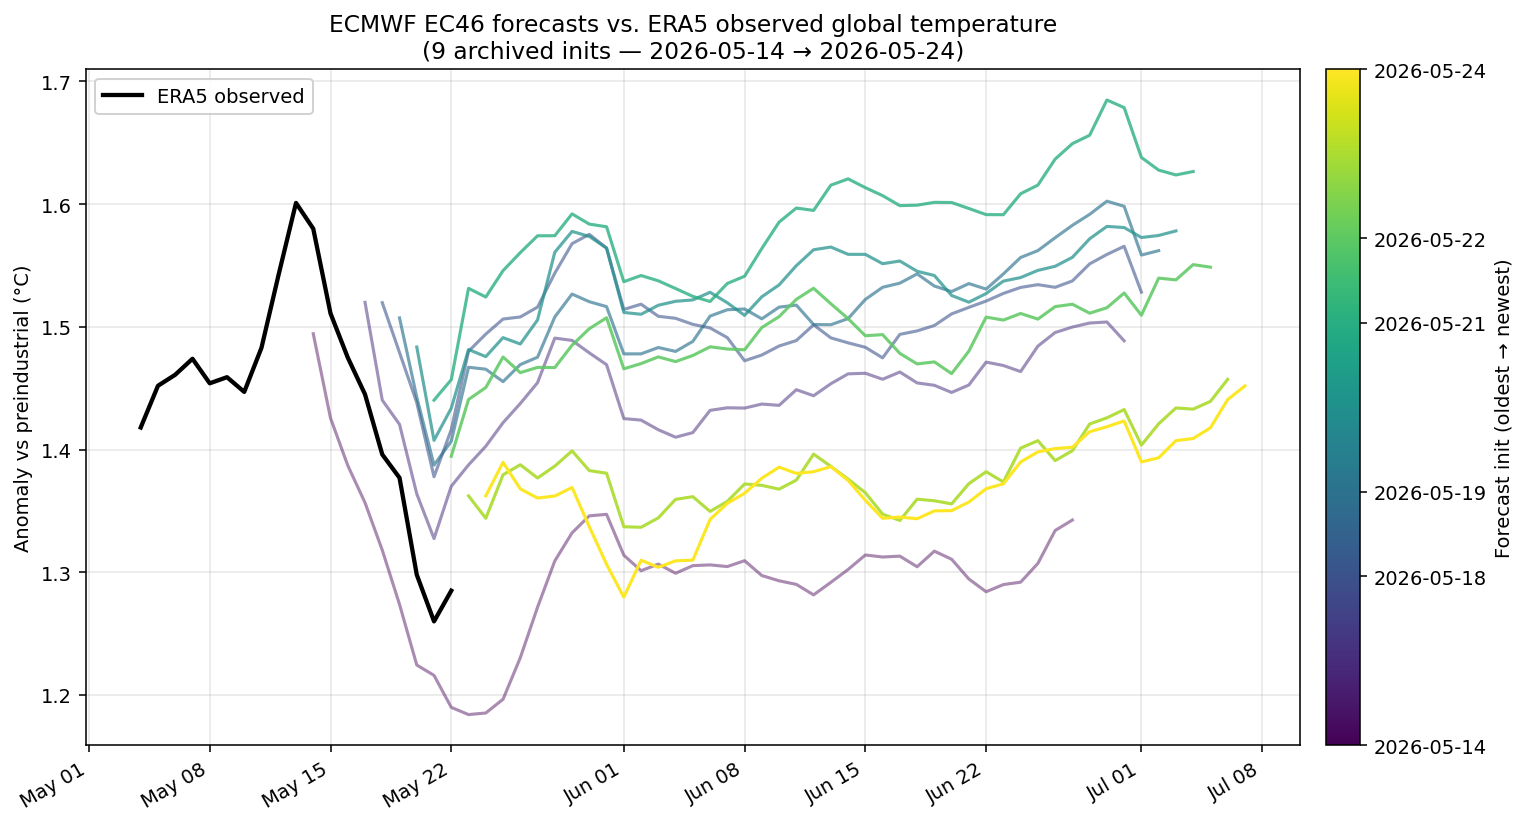
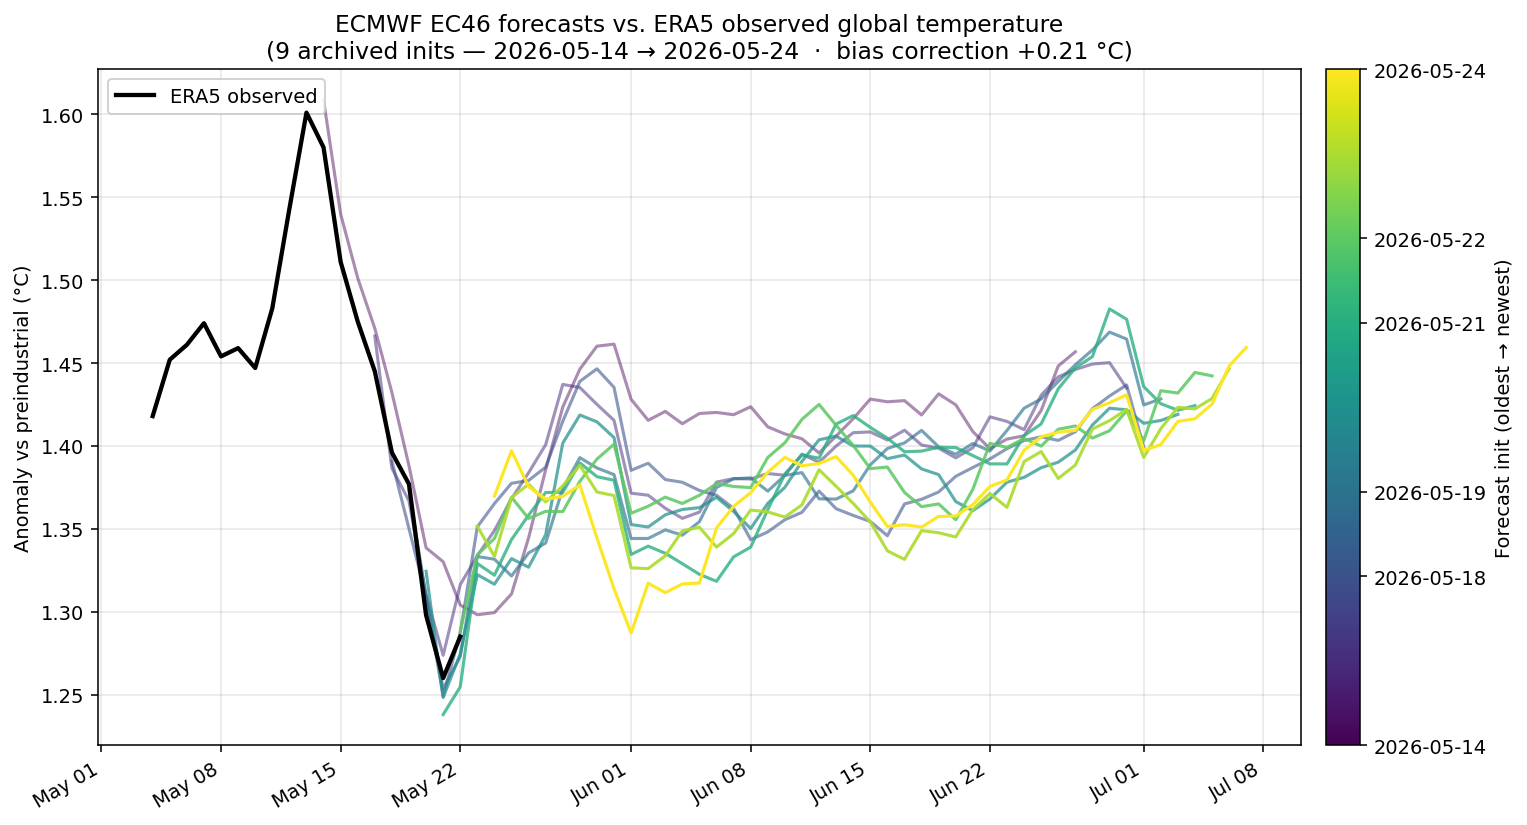
Apply data-driven bias correction in EC46 skill plot
EC46 extended forecasts are initialised from the ECMWF operational
analysis (current IFS cycle) while ERA5 is a frozen reanalysis. The two
disagree by ~0.2 °C on absolute global-mean t2m for the same date, so
subtracting ERA5's per-DOY climatology from raw forecast t2m left every
forecast line sitting as a near-constant 0.2 °C cold tilt under the
obs trace.

Compute the correction dynamically from lead-0 (forecast IC vs ERA5
obs on the init date) pairings across all archived inits — currently
+0.21 °C from 7 pairs, with std ~0.02 °C. Self-tunes as the archive
grows. Applied as a uniform additive shift so relative differences
between inits are preserved. Annotated in the plot title for
transparency.

diff --git a/src/ec46_skill.py b/src/ec46_skill.py
@@ -46,15 +46,20 @@ def _load_obs() -> pd.DataFrame:
     return obs
 
 
-def _anomalize_forecast(fcst: pd.DataFrame, obs: pd.DataFrame) -> pd.DataFrame | None:
-    """Convert an EC46 init's absolute t2m mean to preindustrial anomaly.
+def _anomalize_forecast(fcst: pd.DataFrame, obs: pd.DataFrame,
+                        bias_correction: float = 0.0) -> pd.DataFrame | None:
+    """Convert an EC46 init's absolute t2m mean to preindustrial anomaly,
+    optionally applying a constant bias correction (°C) added to every
+    forecast value before subtracting climatology.
 
     Unlike the dashboard's daily-anomaly plot (which anchors the forecast
     to the trailing 7-day observed mean for visual continuity), the skill
-    plot intentionally does *not* anchor. Anchoring would lift each
-    forecast trajectory by a different per-init delta and make any
-    plotted spread reflect the moving obs anchor rather than actual
-    differences between model forecasts.
+    plot intentionally does *not* anchor. Instead it applies a single
+    archive-wide bias correction estimated from lead-0 (model IC vs ERA5
+    obs) pairings — see ``_estimate_bias_correction``. A uniform shift
+    preserves the relative differences between inits while removing the
+    ECMWF operational-analysis vs ERA5-reanalysis offset that otherwise
+    sits as a near-constant cold tilt under every forecast line.
     """
     if fcst.empty:
         return None
@@ -65,7 +70,8 @@ def _anomalize_forecast(fcst: pd.DataFrame, obs: pd.DataFrame) -> pd.DataFrame |
     doy_clim = obs.groupby("day_of_year")["climatology"].mean()
     f["clim_C"] = f["day_of_year"].map(doy_clim)
     f["pi_offset"] = f["date"].apply(lambda d: MONTHLY_PREINDUSTRIAL_OFFSETS[d.month])
-    f["forecast_anom"] = f["t2m_mean"] - f["clim_C"] + f["pi_offset"]
+    f["forecast_anom"] = (f["t2m_mean"] + bias_correction
+                          - f["clim_C"] + f["pi_offset"])
     return f[["date", "forecast_anom"]]
 
 
@@ -85,6 +91,42 @@ def _load_archive() -> list[tuple[pd.Timestamp, pd.DataFrame]]:
     return out
 
 
+def _estimate_bias_correction(
+    archive: list[tuple[pd.Timestamp, pd.DataFrame]],
+    obs: pd.DataFrame,
+) -> float:
+    """Return the bias correction (°C) to add to forecast t2m so EC46
+    forecasts align with ERA5 reanalysis on a global-mean basis.
+
+    Computed as the mean of (ERA5 obs t2m − forecast t2m) at lead-day 0
+    across all archived inits where the obs date is present. Lead-day 0
+    is the cleanest comparison: it isolates the IC-vs-reanalysis offset
+    (ECMWF operational analysis vs ERA5) from any model drift that
+    accumulates with lead time. Returns 0.0 if we have no pairings yet.
+    """
+    diffs: list[float] = []
+    obs_indexed = obs.set_index("date")["temperature"]
+    for init_date, raw in archive:
+        f = raw.copy()
+        f["date"] = pd.to_datetime(f["date"])
+        day0 = f[f["date"] == init_date]
+        if day0.empty:
+            continue
+        try:
+            obs_val = float(obs_indexed.loc[init_date])
+        except KeyError:
+            continue
+        diffs.append(obs_val - float(day0["t2m_mean"].iloc[0]))
+    if not diffs:
+        return 0.0
+    bias = float(np.mean(diffs))
+    logger.info(
+        "EC46 skill: bias correction = %+.3f °C from %d lead-0 pairings",
+        bias, len(diffs),
+    )
+    return bias
+
+
 def make_plot(output_path: Path = OUTPUT_PNG) -> Path | None:
     """Generate the EC46 forecast-vs-obs PNG. Returns the output path on
     success, None if there is nothing to plot."""
@@ -94,10 +136,11 @@ def make_plot(output_path: Path = OUTPUT_PNG) -> Path | None:
         return None
 
     obs = _load_obs()
+    bias = _estimate_bias_correction(archive, obs)
 
     forecasts: list[tuple[pd.Timestamp, pd.DataFrame]] = []
     for init_date, raw in archive:
-        anom = _anomalize_forecast(raw, obs)
+        anom = _anomalize_forecast(raw, obs, bias_correction=bias)
         if anom is not None and not anom.empty:
             forecasts.append((init_date, anom))
 
@@ -140,9 +183,11 @@ def make_plot(output_path: Path = OUTPUT_PNG) -> Path | None:
         color="black", linewidth=2.2, label="ERA5 observed", zorder=100,
     )
 
+    bias_note = f"  ·  bias correction {bias:+.2f} °C" if bias else ""
     ax.set_title(
         "ECMWF EC46 forecasts vs. ERA5 observed global temperature\n"
-        f"({len(forecasts)} archived inits — {earliest_init:%Y-%m-%d} → {init_dates[-1]:%Y-%m-%d})",
+        f"({len(forecasts)} archived inits — {earliest_init:%Y-%m-%d} → "
+        f"{init_dates[-1]:%Y-%m-%d}{bias_note})",
         fontsize=12,
     )
     ax.set_ylabel("Anomaly vs preindustrial (°C)")